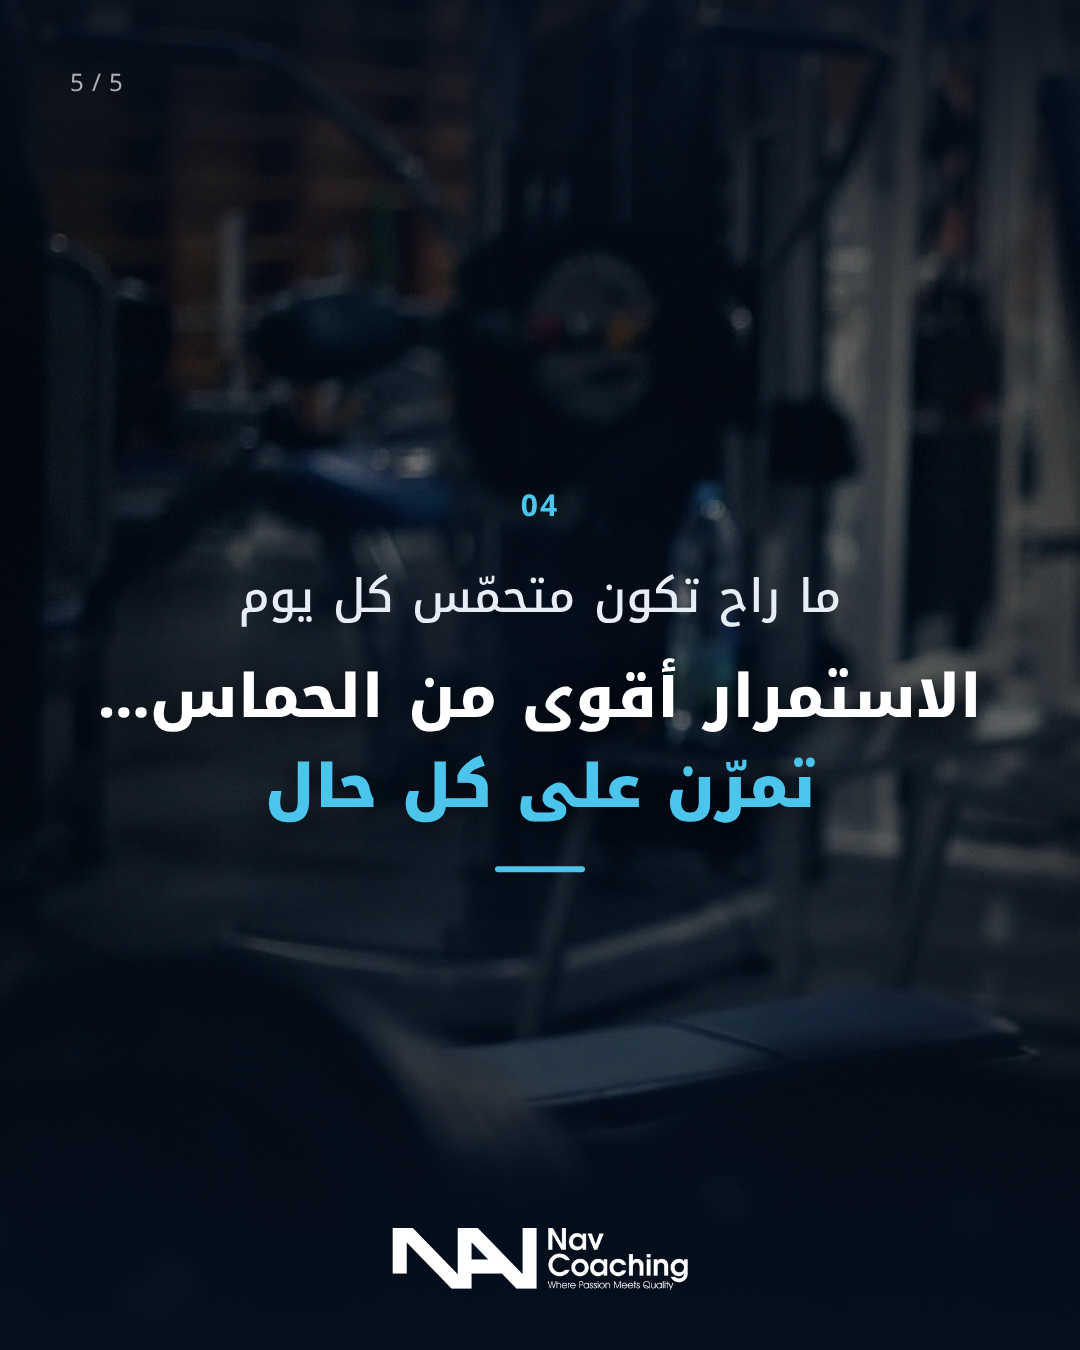
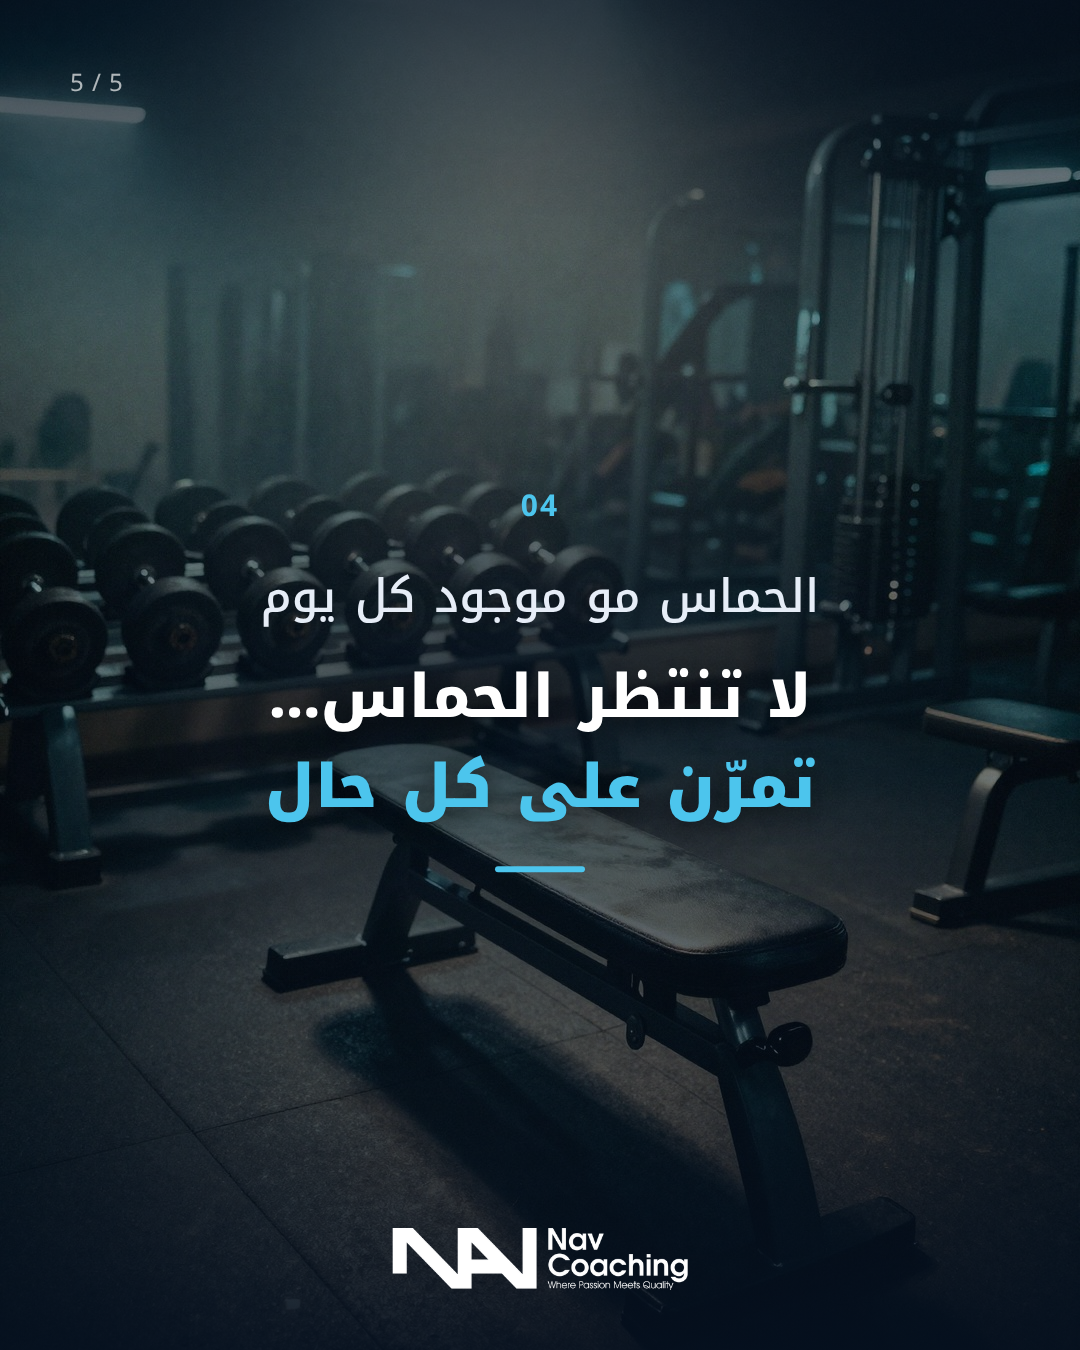
gymrules: cinematic generated backgrounds, new slide 5 copy
Claude-Session: https://claude.ai/code/session_014K8VAaJoHdbEmLTmDkRNee

diff --git a/instagram/gymrules/slides.html b/instagram/gymrules/slides.html
@@ -18,6 +18,6 @@ const S=[
 ['01','لا تقارن بدايتك بنهاية غيرك','ركّز على <b>تقدّمك أنت</b>'],
 ['02','لا تغيّر برنامجك كل أسبوع','التزم بخطة وحدة <b>صح</b><br>قبل ما تحكم على النتيجة'],
 ['03','الاستشفاء جزء من التطور','النوم والأكل والراحة<br>مهمة <b>قد التمرين</b>'],
-['04','ما راح تكون متحمّس كل يوم','الاستمرار أقوى من الحماس…<br><b>تمرّن على كل حال</b>']];
+['04','الحماس مو موجود كل يوم','لا تنتظر الحماس…<br><b>تمرّن على كل حال</b>']];
 root.innerHTML=S.map((s,i)=>`<section class="s" style="background-image:url(bg/${i+1}.jpg)"><div class="n">${i+1} / 5</div><div class="c">${s[0]=='hook'?`<div class="hook">${s[1]}</div><div class="bar"></div>`:`<div class="no">${s[0]}</div><div class="l1">${s[1]}</div><div class="l2">${s[2]}</div><div class="bar"></div>`}</div><img class="logo" src="../../brand/logo-white.webp"></section>`).join('');
 </script></body></html>
